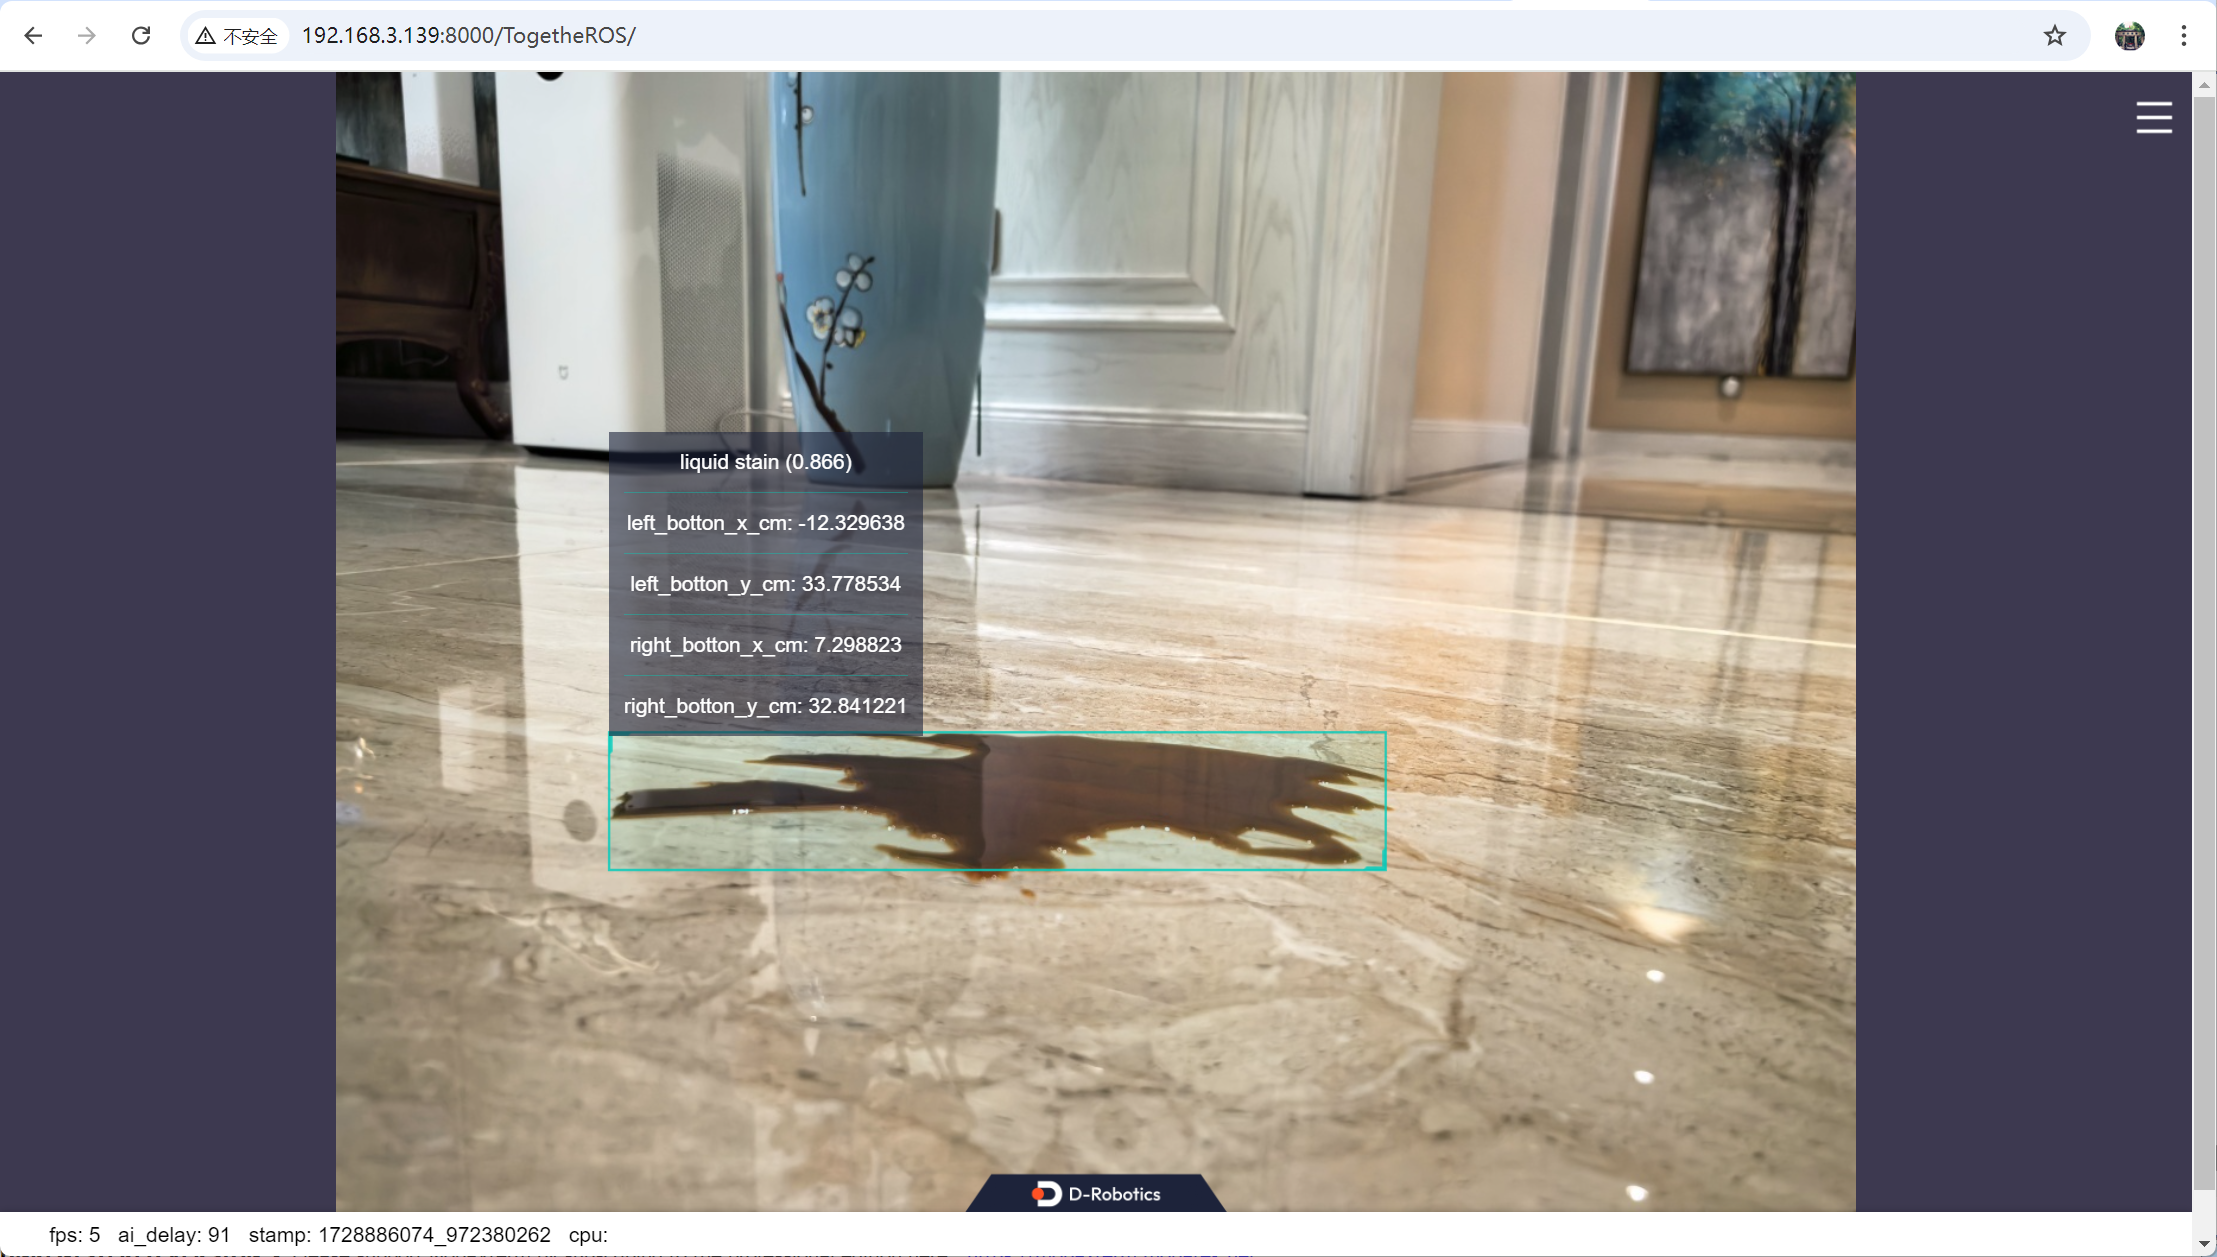
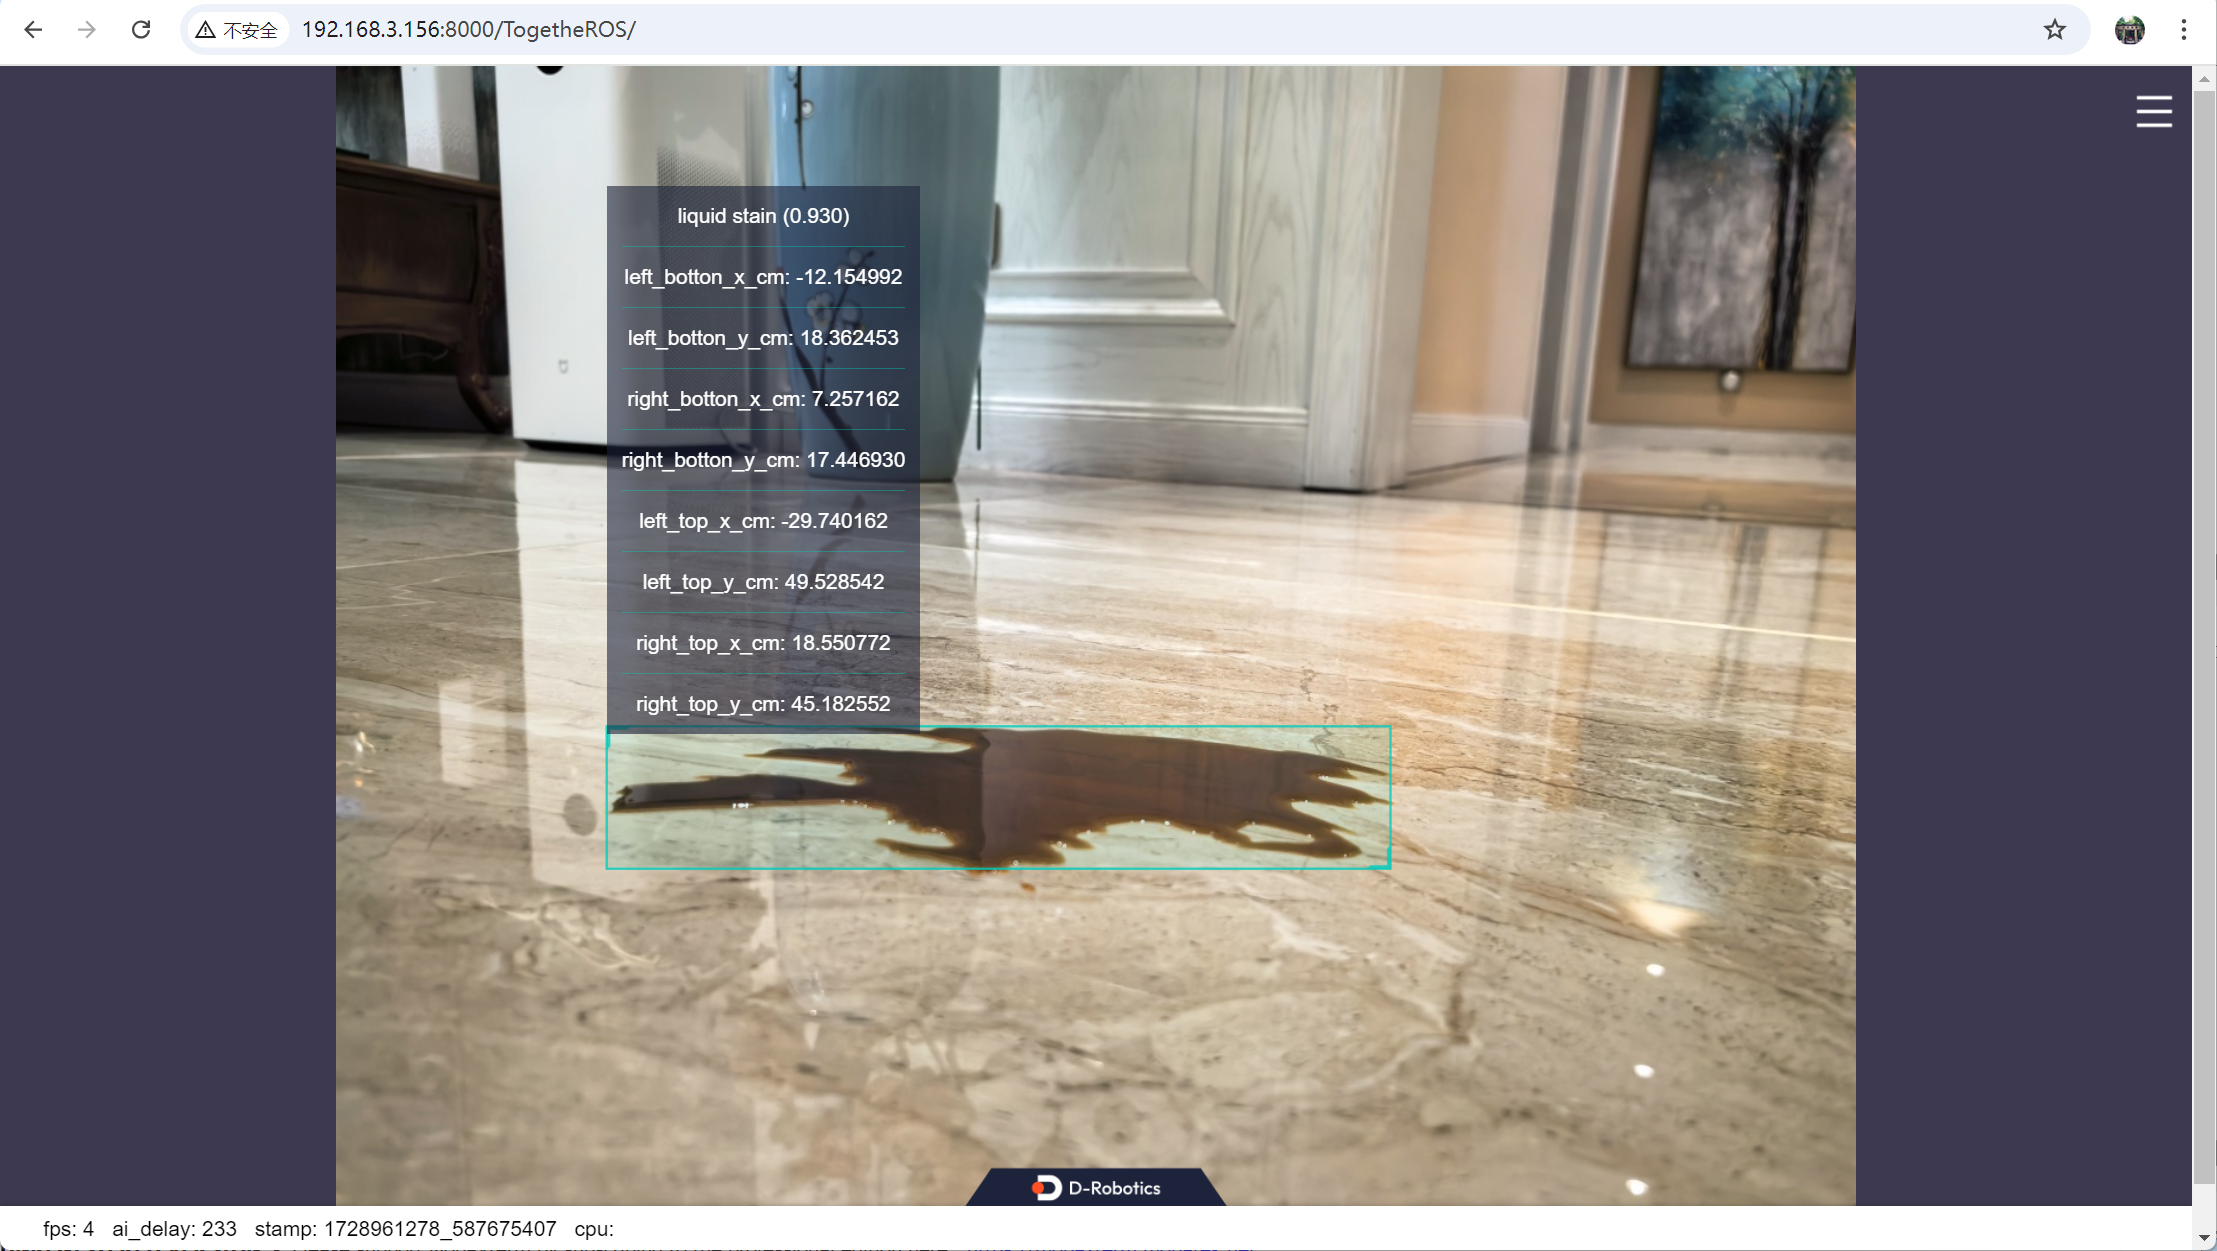
docs: Split perception and server launch

diff --git a/README.md b/README.md
@@ -7,6 +7,8 @@
 
 ## 1. X5开发板
 
+根据开发板类型进行相应配置。
+
 **RDK X5**
 
 [参考手册](https://developer.d-robotics.cc/rdk_doc/Robot_development/quick_start/preparation)，RDK已烧录好Ubuntu系统镜像，已成功安装tros.b。
@@ -19,6 +21,12 @@
 
 [参考手册](http://sysgbj2.hobot.cc/x5/cn/linux_development/driver_develop_guide/33-WIFI_Driver_Debug_Guide.html#id5)，连接WIFI：`wifi_connect [ssid] [password]`，其中`ssid`为WIFI名称，`password`为WIFI密码。例如：`wifi_connect "WiFi-Test" "12345678"`。
 
+配置nginx参数：
+
+```bash
+sed -i 's/# user  nobody;/user  nobody/g' /opt/tros/humble/lib/websocket/webservice/conf/nginx.conf
+```
+
 ## 2. 部署gRPC server
 
 将部署包[下载](https://archive.d-robotics.cc/TogetheROS/files/tros_bridge_grpc.tar.gz)后拷贝到板端`/userdata/`路径下，解压缩：
@@ -28,42 +36,56 @@ cd /userdata/
 tar -zxvf tros_bridge_grpc.tar.gz -C /userdata/
 ```
 
-## 3. 部署算法
+## 3. 部署感知算法
 
 [参考手册](https://horizonrobotics.feishu.cn/docx/JEG8dob8ioB7R2xBWzYc0eyOn5d)，部署感知算法应用。
 
 # 三、运行
 
-## 终端1，启动感知和gRPC server
+## 终端1，启动感知算法
 
-**注意1**，以下命令要求安装路径（即`二、准备工作`章节的部署路径）如下：
+**注意**，以下命令以算法安装在`/userdata`路径下举例。
 
-1. `yoloworld`的安装路径为`/userdata/installyoloworld_advancev2/install`。
-2. `gRPC server`的安装路径为`/userdata/tros_bridge_grpc/install`。
+```bash
+# 依赖ros
+source /opt/ros/humble/setup.bash
+cd /userdata
+export ROS_LOG_DIR=./.ros/log
+export LD_LIBRARY_PATH=/opt/ros/humble/lib:/userdata/deps:/opt/tros/humble/lib:/usr/hobot/lib:sysroot_docker/usr_x5/lib:sysroot_docker/usr_x5/lib/aarch64-linux-gnu/
 
-**注意2**，如果`gRPC client`不是`X5`，使用`X5`的实际`IP`地址替换以下命令中的`localhost:2510`。
+# 依赖解压安装包
+source install/setup.bash
+
+# 复制模型文件
+cp -r install/lib/hobot_yolo_world/config .
+
+# 运行程序
+ros2 launch hobot_yolo_world yolo_world_advance.launch.py smart_topic:=/hobot_yolo_world
+```
+
+## 终端2，启动gRPC server
+
+**注意**，如果`gRPC client`不是`X5`，使用`X5`的实际`IP`地址替换以下命令中的`localhost:2510`。
 
 ```bash
 source /opt/tros/humble/setup.bash
-source /userdata/installyoloworld_advancev2/install/local_setup.bash
 source /userdata/tros_bridge_grpc/install/local_setup.bash
 
 cd /userdata
 export ROS_LOG_DIR=./.ros/log
 export LD_LIBRARY_PATH=/opt/ros/humble/lib:/userdata/deps:/opt/tros/humble/lib:/usr/hobot/lib:sysroot_docker/usr_x5/lib:sysroot_docker/usr_x5/lib/aarch64-linux-gnu/
 
-cp -r /userdata/installyoloworld_advancev2/install/lib/hobot_yolo_world/config/ .
-ros2 launch tros_bridge_grpc yolo_world.launch.py smart_topic:=/hobot_yolo_world is_sync_mode:=1 server_address:=localhost:2510 log_level:=warn
+ros2 run tros_bridge_grpc grpc_server --ros-args -p smart_topic:=/hobot_yolo_world -p is_sync_mode:=1 -p server_address:=localhost:2510 --log-level info
 ```
 
-## 终端2，启动gRPC client，发送图片
+## 终端3，启动gRPC client，发送图片
 
 ```bash
 source /opt/tros/humble/setup.bash
 source /userdata/tros_bridge_grpc/install/local_setup.bash
 
 cd /userdata
-export ROS_LOG_DIR=./.ros/log
+export ROS_LOG_DIR=/userdata/.ros/log
 export LD_LIBRARY_PATH=/opt/ros/humble/lib:/userdata/deps:/opt/tros/humble/lib:/usr/hobot/lib:sysroot_docker/usr_x5/lib:sysroot_docker/usr_x5/lib/aarch64-linux-gnu/
 
 ros2 run tros_bridge_grpc sample_client localhost:2510 `ros2 pkg prefix tros_bridge_grpc`/share/tros_bridge_grpc/config/yolo_world_test.jpg 1
@@ -75,8 +97,7 @@ ros2 run tros_bridge_grpc sample_client localhost:2510 `ros2 pkg prefix tros_bri
 
 ![](imgs/web.jpg)
 
-
-两个终端（左边是server，右边是client）输出如下log：
+3个终端（左上是感知算法输出，右上是gRPC server，左下是gRPC client）输出如下log：
 
 ![](imgs/terminal_log.jpg)
 
